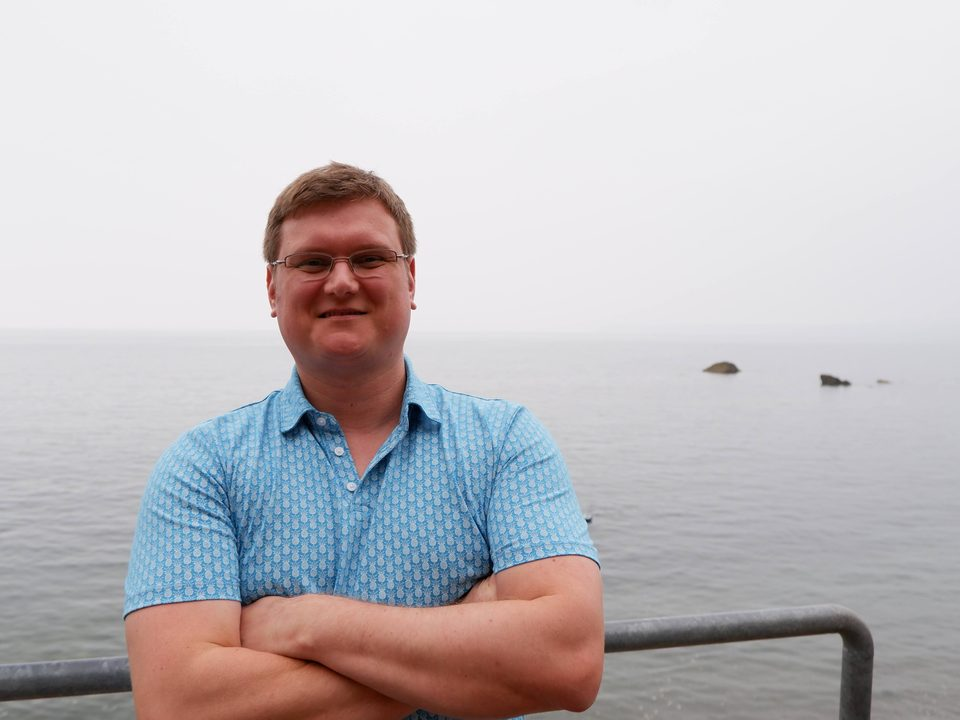
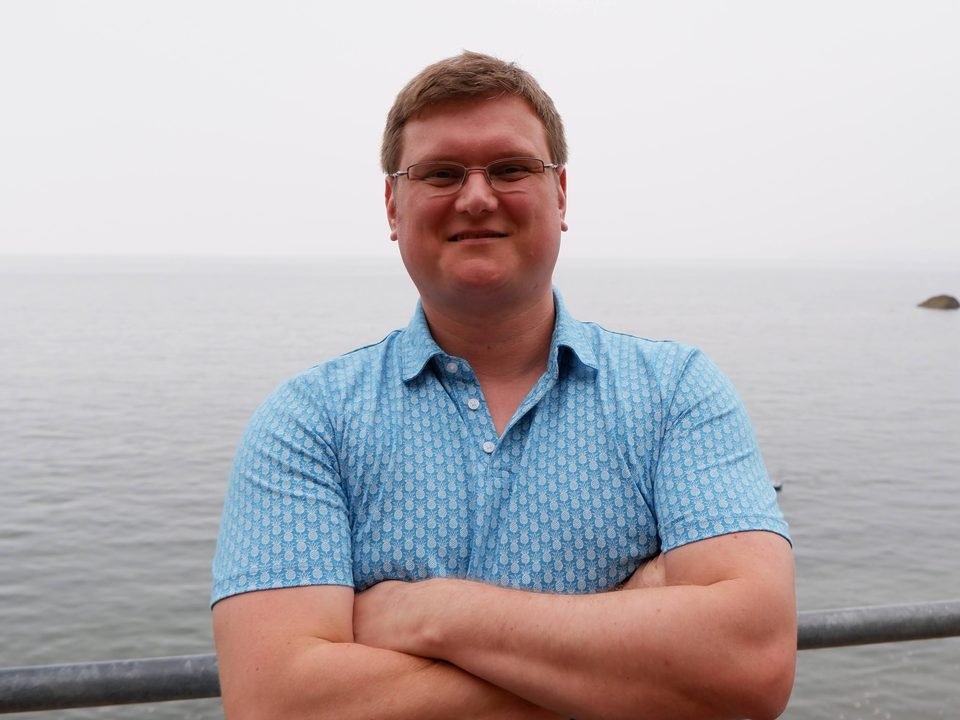
Mobile side padding and a tighter crop of the photograph
The hero rule set padding shorthand '74px 0 56px' on the same element
that carries .wrap, silently zeroing the 24px side padding - on phones
the headline and lede sat flush against the screen edge. The hero now
sets top and bottom only, and the 16px narrow-screen override is gone
so every width gets the full 24px gutter, on all three pages.

The photograph is re-cropped tighter: 82% of the frame height, bottom-
anchored, so the face and folded arms fill the card instead of the sky.
Same 960x720, ~75KB, still stripped of metadata.

diff --git a/index.html b/index.html
@@ -145,7 +145,7 @@ img{max-width:100%;height:auto}
 :focus-visible{outline:2.5px solid var(--red);outline-offset:3px}
 
 /* ---------- hero ---------- */
-.hero{padding:74px 0 56px}
+.hero{padding-top:74px;padding-bottom:56px}
 .hero h1{font-size:clamp(34px,6.1vw,70px);max-width:15ch}
 .hero .lede{font-size:clamp(17px,2vw,20px);max-width:56ch;margin-top:24px;color:var(--ink-soft)}
 .hero .lede strong{color:var(--ink);font-weight:600}
@@ -314,7 +314,7 @@ footer nav a{display:inline-block;padding:4px 0}
   .op{grid-template-columns:1fr;gap:28px}
   .q{grid-template-columns:1fr;gap:10px}
   section{padding:54px 0}
-  .hero{padding:48px 0 40px}
+  .hero{padding-top:48px;padding-bottom:40px}
   .ledger-head,.ledger-foot,table.led th,table.led td{padding-left:16px;padding-right:16px}
   .tool-body,.tool-head,.tool-foot,.result{padding-left:18px;padding-right:18px}
 }
@@ -325,7 +325,6 @@ footer nav a{display:inline-block;padding:4px 0}
   .led-hrs{display:block;font-size:11px;color:var(--ink-soft);margin-top:2px}
 }
 @media(max-width:420px){
-  .wrap{padding:0 16px}
   body{font-size:16px}
   .top .btn{padding:10px 12px;font-size:12px}
 }

diff --git a/privacy.html b/privacy.html
@@ -50,7 +50,7 @@ footer .wrap{display:flex;justify-content:space-between;gap:16px;flex-wrap:wrap;
 footer a{color:var(--ink-soft)}
 footer nav{display:flex;gap:24px;flex-wrap:wrap}
 footer nav a{display:inline-block;padding:4px 0}
-@media(max-width:420px){.wrap{padding:0 16px}body{font-size:16px}}
+@media(max-width:420px){body{font-size:16px}}
 </style>
 </head>
 <body>

diff --git a/terms.html b/terms.html
@@ -50,7 +50,7 @@ footer .wrap{display:flex;justify-content:space-between;gap:16px;flex-wrap:wrap;
 footer a{color:var(--ink-soft)}
 footer nav{display:flex;gap:24px;flex-wrap:wrap}
 footer nav a{display:inline-block;padding:4px 0}
-@media(max-width:420px){.wrap{padding:0 16px}body{font-size:16px}}
+@media(max-width:420px){body{font-size:16px}}
 </style>
 </head>
 <body>
